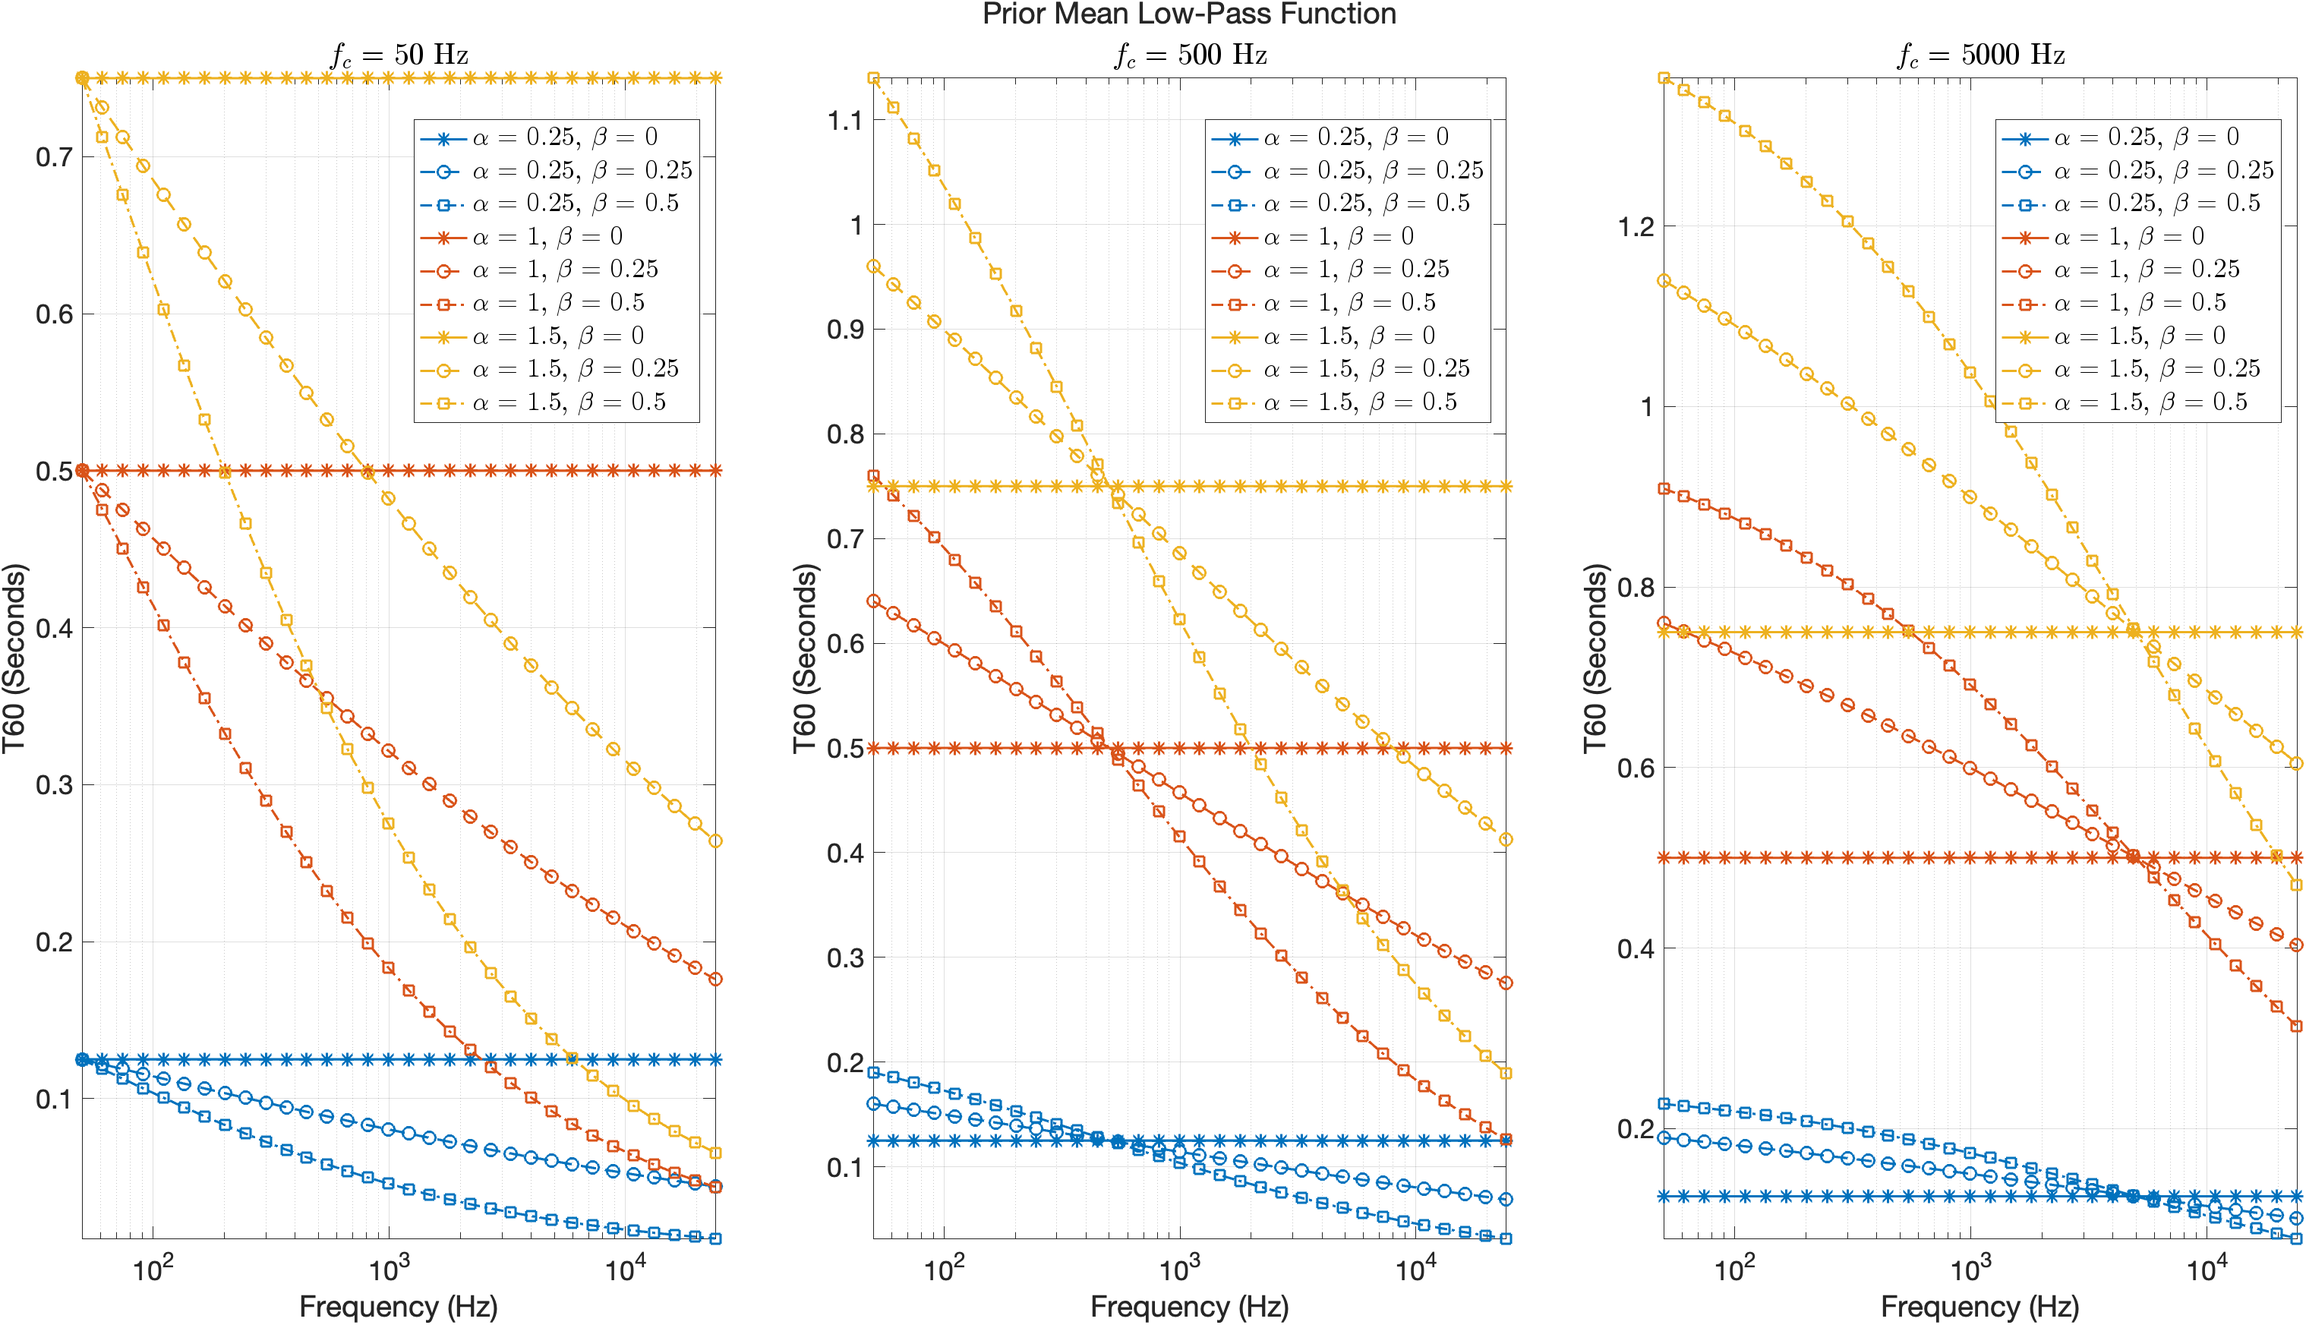
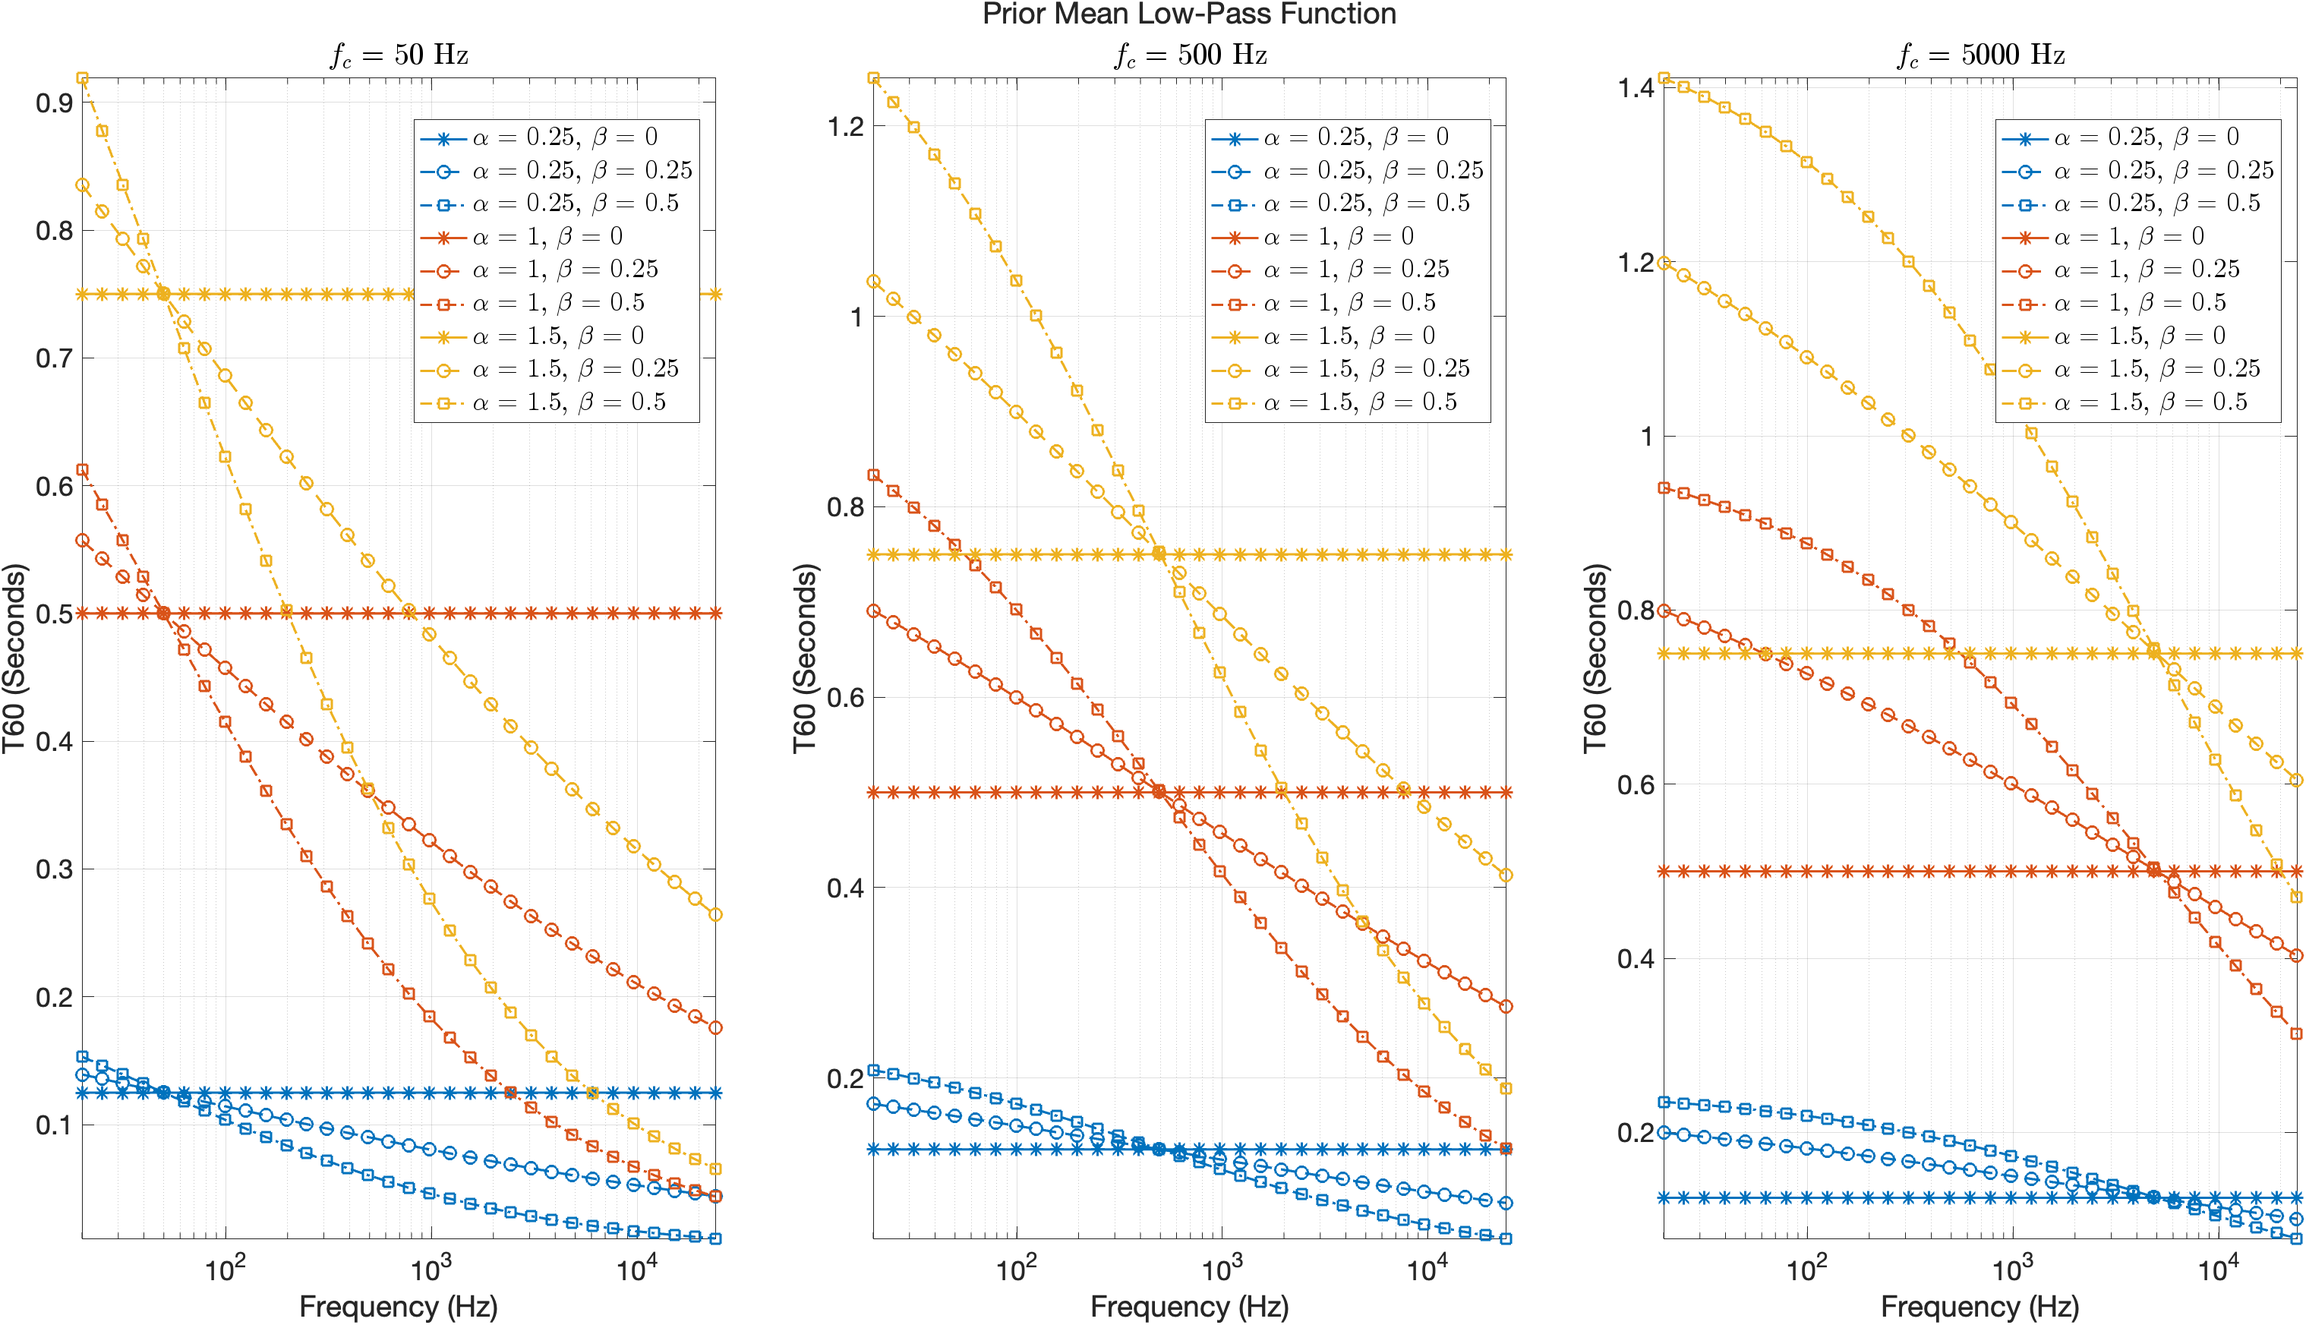
update markdown T60 tutorial with GP mean and covariance prior specifications, add further plotting support

diff --git a/gp/gp_plt.m b/gp/gp_plt.m
@@ -12,28 +12,32 @@ function h_fig_list = gp_plt(func_name, options)
 
 % options.mu_pow_f_lo:                  Scalar, frequency start (Hz)
 % options.mu_pow_f_hi:                  Scalar, Frequency end (Hz)
-% options.mu_pow_alpha_list:            [1 x N_alpha], list of T60 at 0 Hz
-% options.mu_pow_beta_list:             [1 x N_beta], list of decay exponents
+% options.mu_pow_alpha_list:            [1 x N_alpha] list of T60 at 0 Hz
+% options.mu_pow_beta_list:             [1 x N_beta] list of decay exponents
+% options.mu_pow_fig_position:          [1 x 4] figure position [x, y, width, height]
 
 % options.mu_lpf_f_lo:                  Scalar, frequency start (Hz)
 % options.mu_lpf_f_hi:                  Scalar, Frequency end (Hz)
 % options.mu_lpf_alpha_list:            [1 x N_alpha], list of T60 at 0 Hz
 % options.mu_lpf_beta_list:             [1 x N_beta], list of decay exponents
 % options.mu_lpf_omega_fc_list:         [1 x N_fc], list of cross-over frequencies
+% options.mu_lpf_fig_position:          [1 x 4] figure position [x, y, width, height]
 
 % options.cov_sqx_chw_ns_f_0_list:       [1 x N_f_0] Frequency f_0 (Hz)
 % options.cov_sqx_chw_ns_f_lo:           Scalar, frequency start (Hz)
 % options.cov_sqx_chw_ns_f_hi:           Scalar, Frequency end (Hz)
 % options.cov_sqx_chw_ns_sigma:          Scalar, covariance scaling parameter
-% options.cov_sqx_chw_ns_ell_list:       [1 x N_ell], list of wavelength scaling
-% options.cov_sqx_chw_ns_gamma_list:     [1 x N_gamma], list of wavelength exponents
+% options.cov_sqx_chw_ns_ell_list:       [1 x N_ell] list of wavelength scaling
+% options.cov_sqx_chw_ns_gamma_list:     [1 x N_gamma] list of wavelength exponents
+% options.cov_sqx_chw_nsfig_position:    [1 x 4] figure position [x, y, width, height]
 % 
 % options.cov_sqx_chw_sqx_f_0_list:      [1 x N_f_0] Frequency f_0 (Hz)
 % options.cov_sqx_chw_sqx_f_lo:          Scalar, frequency start (Hz)
 % options.cov_sqx_chw_sqx_f_hi:          Scalar, Frequency end (Hz)
 % options.cov_sqx_chw_sqx_sigma:         Scalar, covariance scaling parameter
-% options.cov_sqx_chw_sqx_ell_c_list:    [1 x N_ell], list of wavelength scaling
-% options.cov_sqx_chw_sqx_ell_f_list:    [1 x N_gamma], list of wavelength exponents
+% options.cov_sqx_chw_sqx_ell_c_list:    [1 x N_ell] list of wavelength scaling
+% options.cov_sqx_chw_sqx_ell_f_list:    [1 x N_gamma] list of wavelength exponents
+% options.cov_sqx_chw_sqx_fig_position:  [1 x 4] figure position [x, y, width, height]
 % 
 % options.enable_export:                 Logical, if true, export figures to files
 
@@ -53,31 +57,34 @@ function h_fig_list = gp_plt(func_name, options)
 arguments
     func_name (1,:) char {mustBeMember(func_name, {'mu_pow', 'mu_lpf', 'cov_sqx_chw_ns', 'cov_sqx_chw_sqx'})} = 'cov_sqx_chw_ns';
 
-    options.mu_pow_f_lo (1,1) double {mustBePositive} = 50;
+    options.mu_pow_f_lo (1,1) double {mustBePositive} = 20;
     options.mu_pow_f_hi (1,1) double {mustBePositive}  = 24000;
     options.mu_pow_alpha_list (1,:) double {mustBeNonnegative} = [0.25, 1, 1.5];
     options.mu_pow_beta_list (1,:) double = [0, 0.125, 0.25];
+    options.mu_pow_fig_position (1,4) double {mustBeNonnegative} = [100, 100, 900, 450];
 
-    options.mu_lpf_f_lo (1,1) double {mustBePositive} = 50;
+    options.mu_lpf_f_lo (1,1) double {mustBePositive} = 20;
     options.mu_lpf_f_hi (1,1) double {mustBePositive}  = 24000;
     options.mu_lpf_alpha_list (1,:) double {mustBeNonnegative} = [0.25, 1, 1.5];
     options.mu_lpf_beta_list (1,:) double  {mustBeNonnegative} = [0, 0.25, 0.5];
-    options.mu_lpf_omega_fc_list (1,:) double = 2 * pi * [50, 500, 5000];
-
+    options.mu_lpf_omega_fc_list (1,:) double {mustBeNonnegative} = 2 * pi * [50, 500, 5000];
+    options.mu_lpf_fig_position (1,4) double {mustBeNonnegative} = [100, 100, 1600, 900];
 
     options.cov_sqx_chw_ns_f_0_list  (1,:) double {mustBePositive} = [50, 500, 5000];
-    options.cov_sqx_chw_ns_f_lo (1,1) double {mustBePositive} = 50;
+    options.cov_sqx_chw_ns_f_lo (1,1) double {mustBePositive} = 20;
     options.cov_sqx_chw_ns_f_hi (1,1) double {mustBePositive}  = 24000;
     options.cov_sqx_chw_ns_sigma (1,1) double {mustBeNonnegative} = 1;
     options.cov_sqx_chw_ns_ell_list (1,:) double {mustBePositive} = 343;
     options.cov_sqx_chw_ns_gamma_list (1,:) double {mustBePositive} =  [0.5, 1, 1.5];
+    options.cov_sqx_chw_ns_fig_position (1,4) double {mustBeNonnegative} = [100, 100, 1600, 900];
 
     options.cov_sqx_chw_sqx_f_0_list  (1,:) double {mustBePositive} = [50, 500, 5000];
-    options.cov_sqx_chw_sqx_f_lo (1,1) double {mustBePositive} = 50;
+    options.cov_sqx_chw_sqx_f_lo (1,1) double {mustBePositive} = 20;
     options.cov_sqx_chw_sqx_f_hi (1,1) double {mustBePositive}  = 24000;
     options.cov_sqx_chw_sqx_sigma (1,1) double {mustBeNonnegative} = 1;
     options.cov_sqx_chw_sqx_ell_c_list (1,:) double {mustBePositive} = [1 2]/2;
     options.cov_sqx_chw_sqx_ell_f_list (1,:) double {mustBePositive} = [2 4]/2;
+    options.cov_sqx_chw_sqx_fig_position (1,4) double {mustBeNonnegative} = [100, 100, 1600, 900];
 
     options.fontsize (1,1) double {mustBePositive, mustBeInteger} = 20;
     options.FaceColor (1,:) char {mustBeMember(options.FaceColor, {'flat', 'interp'}) } = 'flat';
@@ -106,12 +113,13 @@ if strcmp(func_name, 'mu_pow')
     for i = 1:N_alpha
         for j = 1:N_beta
             mu_list(:, i, j) = mu_pow(omega, alpha_list(i), beta_list(j));
+%            mu_list(:, i, j) = gp_mu(omega, gp_mu_opts('mu_func', 'power', 'mu_alpha', alpha_list(i), 'mu_beta', beta_list(j)));
         end
     end
     
     %Plot
     h_fig = figure;
-    h_fig.Position = [100, 100, 900, 450];
+    h_fig.Position = options.mu_pow_fig_position;
     h_fig_list{1} = h_fig;
 
     line_style_list = {'-', '--', '-.', ':'};
@@ -169,7 +177,7 @@ elseif strcmp(func_name, 'mu_lpf')
     
     %Plot
     h_fig = figure;
-    h_fig.Position = [100, 100, 1600, 900];
+    h_fig.Position = options.mu_lpf_fig_position;
     h_fig_list{1} = h_fig;
 
     line_style_list = {'-', '--', '-.', ':'};
@@ -233,7 +241,7 @@ elseif strcmp(func_name, 'cov_sqx_chw_ns')
 
     %Plotting
     h_fig = figure;
-    h_fig.Position = [100, 100, 1600, 900];
+    h_fig.Position = options.cov_sqx_chw_ns_fig_position;
     h_fig_list{1} = h_fig;
 
     %Setup tiled layouts
@@ -263,7 +271,6 @@ elseif strcmp(func_name, 'cov_sqx_chw_ns')
                 %Compute covariance
                 K = cov_sqx_chw_ns(X, X0, sigma, ell, gamma);    
                 K_phi_freq = reshape(K, [N_theta_phi, N_freq]);
-    
                 
                 h_pc = pcolor(freq_list, rad2deg(phi_list), mag2db(K_phi_freq));
                 set(h_pc, 'EdgeColor', 'none');
@@ -319,7 +326,7 @@ elseif strcmp(func_name, 'cov_sqx_chw_sqx')
 
     %Plotting
     h_fig = figure;
-    h_fig.Position = [100, 100, 1600, 900];
+    h_fig.Position = options.cov_sqx_chw_sqx_fig_position;
     h_fig_list{1} = h_fig;
 
     %Setup tiled layouts

diff --git a/gp/gp_cov.m b/gp/gp_cov.m
@@ -17,22 +17,22 @@ function [K, dK_mat_list, dK_name_list] = gp_cov(X, Y, options)
 %dK_name_list: [1 x P] cell matrix where dK_name_list{1, n} is name of variable in gp_cov_opts.m
 
 %%%%%%%%%%%%%%%%%%%%%%%%%%%%%%%%%%%%%%%%%%%%%%%%%%%%%%%%%%%%%%%%%%%%%%%%%%%
-%Sample usage: Generate sample covariance matrix and partial derivatives
+%Sample usage: Generate and plot prior covariance matrix and partial derivatives
 
-% rng(234);
-% N_B = 16;
-% N_E = 10;
-% Fs = 48000;
-% omega = logspace(log10(20), log10(Fs/2), N_B)' * 2 *pi;
+% N_B = 16;     %Number of log-uniform angular frequencies
+% N_E = 20;     %Number of uniform spherical coordinates
+
+% omega = 2 * pi * logspace(log10(20), log10(24000), N_B)';
 % [theta, phi] = sh_fib(N_E);
 % freq = max(1, omega / (2 * pi)); %[N_B x 1]
-% theta = rand(N_E, 1) * pi;
-% phi = rand(N_E, 1) * 2 * pi;
+
 % freq_grid = repmat(freq, [1, N_E]);
 % theta_grid  = repmat(theta', [N_B, 1]);
 % phi_grid    = repmat(phi', [N_B, 1]);
 % X = [2 * pi * freq_grid(:), theta_grid(:), phi_grid(:)]; %[N_B * N_E x 1]
-% [K, dK_mat_list, dK_name_list] = gp_cov(X, X);
+
+% [K, dK_mat_list, dK_name_list] = gp_cov(X, X, gp_cov_opts('cov_func', 'cov_sqx_chw_ns', 'cov_sigma', 1, 'cov_ell', 343, 'cov_gamma', 1, 'enable_disp', true));
+% [K, dK_mat_list, dK_name_list] = gp_cov(X, X, gp_cov_opts('cov_func', 'cov_sqx_chw_sqx', 'cov_sigma', 1, 'cov_ell_c', 1, 'cov_ell_f', 2, 'enable_disp', true));
 
 arguments
     X (:,3) double = [1 0 0];
@@ -52,6 +52,10 @@ if strcmp(options.cov_func, 'cov_sqx_chw_ns')
         K = cov_sqx_chw_ns(X, Y, options.cov_sigma, options.cov_ell, options.cov_gamma); %[NX x NY] K
     end
 
+    if options.enable_disp  && coder.target('MATLAB')
+        gp_plt('cov_sqx_chw_ns', 'cov_sqx_chw_ns_sigma', options.cov_sigma, 'cov_sqx_chw_ns_ell_list', options.cov_ell, 'cov_sqx_chw_ns_gamma_list', options.cov_gamma, 'cov_sqx_chw_ns_fig_position', [100, 100, 1200, 900]);
+    end
+
 elseif strcmp(options.cov_func, 'cov_sqx_chw_sqx')
 
     if nargout > 1
@@ -61,9 +65,12 @@ elseif strcmp(options.cov_func, 'cov_sqx_chw_sqx')
         dK_name_list = {'cov_sigma', 'cov_ell_c', 'cov_ell_f'};
 
     else
-        K = cov_sqx_chw_sqx(X, Y, options.cov_sigma, options.options.cov_ell_c, options); %[NX x NY] K
+        K = cov_sqx_chw_sqx(X, Y, options.cov_sigma, options.cov_ell_c, options.cov_ell_f); %[NX x NY] K
     end
 
+    if options.enable_disp  && coder.target('MATLAB')
+        gp_plt('cov_sqx_chw_sqx', 'cov_sqx_chw_sqx_sigma', options.cov_sigma, 'cov_sqx_chw_sqx_ell_c_list', options.cov_ell_c, 'cov_sqx_chw_sqx_ell_f_list', options.cov_ell_f, 'cov_sqx_chw_sqx_fig_position', [100, 100, 1200, 900]);
+    end
 
 else
     error('Unsupported options.cov_func');

diff --git a/gp/gp_mu.m b/gp/gp_mu.m
@@ -12,6 +12,14 @@ function mu = gp_mu(omega, options)
 %Output
 %mu:        [N x M]
 
+%%%%%%%%%%%%%%%%%%%%%%%%%%%%%%%%%%%%%%%%%%%%%%%%%%%%%%%%%%%%%%%%%%%%%%%%%%%
+%Sample usage: Evaluate and plot prior mean function 
+
+% omega = 2 * pi * logspace(log10(20), log10(24000), 256)'; % Angular frequencies
+
+% mu_power = gp_mu(omega, gp_mu_opts('mu_func', 'power', 'mu_alpha', 1, 'mu_beta', 0.5, 'enable_disp', true));
+% mu_lpf   = gp_mu(omega, gp_mu_opts('mu_func', 'LPF',   'mu_alpha', 1, 'mu_beta', 0.5, 'mu_fc', 500, 'enable_disp', true));
+
 arguments
     omega (:,:) double {mustBeNonnegative} = pi/2;
     options = gp_mu_opts;
@@ -22,11 +30,18 @@ if strcmp(options.mu_func, 'power')
 
     mu = mu_pow(omega, options.mu_alpha, options.mu_beta); %[N x M]
 
+    if options.enable_disp  && coder.target('MATLAB')
+        gp_plt('mu_pow', 'mu_pow_alpha_list', options.mu_alpha, 'mu_pow_beta_list', options.mu_beta, 'mu_pow_fig_position', [100, 100, 900, 450]);
+    end
+     
 elseif strcmp(options.mu_func, 'LPF')
 
     mu = mu_lpf(omega, options.mu_alpha, options.mu_beta, options.mu_fc * 2 * pi); %[N x M]
 
+    if options.enable_disp  && coder.target('MATLAB')
+        gp_plt('mu_lpf', 'mu_lpf_alpha_list', options.mu_alpha, 'mu_lpf_beta_list', options.mu_beta, 'mu_lpf_omega_fc_list', options.mu_fc * 2 * pi, 'mu_lpf_fig_position', [100, 100, 900, 450]);
+    end
+
 else
     error('Unsupported options.mu_func');
 end
-

diff --git a/gp/gp_mu_opts.m b/gp/gp_mu_opts.m
@@ -8,7 +8,11 @@ function options = gp_mu_opts(options)
 
 arguments
     options.mu_func    (1,:) char {mustBeMember(options.mu_func, {'power', 'LPF'}) } = 'power';
+
     options.mu_alpha   (1,1) double {mustBeNonnegative} = 1;
     options.mu_beta    (1,1) double {mustBeNonnegative} = 0.25;
+
     options.mu_fc      (1,1) double {mustBeNonnegative} = 8000;
+
+    options.enable_disp (1,1) logical = false;
 end

diff --git a/gp/gp_cov_opts.m b/gp/gp_cov_opts.m
@@ -33,6 +33,7 @@ arguments
     options.cov_ell_c_lim  (1,2) double {mustBePositive} = [eps, inf];
     options.cov_ell_f_lim  (1,2) double {mustBePositive} = [eps, inf];
 
+    options.enable_disp (1,1) logical = false;
 end
 
 if strcmp(options.cov_func, 'cov_sqx_chw_ns')

diff --git a/tutorial_t60_aug.md b/tutorial_t60_aug.md
@@ -4,10 +4,10 @@ In this tutorial, we cover sound decay time augmentation of room impulse respons
 >Yuancheng Luo, "Fast Time-Varying Exponentiated Convolution Methods for Generative Direction Dependent Reverberation", Proceedings of the 160th Audio Engineering Society Convention.
 
 The high-level steps are as follows:
-* Sample or design a sound decay time function $T_{60}(\omega, \theta, \phi)$ of angular frequency $\omega$, and spherical coordinates $(\theta, \phi)$ co-latitude and azimuth respectively
-* Fit a short finite impulse response (FIR) exponentiating filter $\bf{g}$ to sampled $T_{60}(\omega, \theta, \phi)$ functions
-* Specify an input RIR or generate a colorless (constant T60) RIR $\bf{h}$
-* Apply time-varying exponentiated convolution $\textbf{f} = f(\bf{g}, \bf{h})$
+* [Sampling T60 from Gaussian Processes (GPs):](#sampling-t60-functions-from-gaussian-processes) Sample or design a sound decay time function $T_{60}(\omega, \theta, \phi)$ of angular frequency $\omega$, and spherical coordinates $(\theta, \phi)$ co-latitude and azimuth respectively
+* [Exponentiating FIR Optimization:](#fitting-fir-to-t60-functions) Fit a short finite impulse response (FIR) exponentiating filter $\bf{g}$ to sampled $T_{60}(\omega, \theta, \phi)$ functions
+* [Specifying or generating colorless RIR:](#generating-colorless-room-impulse-responses) Specify an input RIR or generate a colorless (constant T60) RIR $\bf{h}$
+* [Augmenting RIR:](#applying-time-varying-exponentiated-convolution) Apply time-varying exponentiated convolution $\textbf{f} = f(\bf{g}, \bf{h})$
 
 ## Sampling T60 Functions from Gaussian Processes
 We can sample smooth T60 functions $T_{60}(\omega, \theta, \phi)$ of frequency and spherical coordinates from Gaussian processes distributions defined by prior mean and covariance functions.
@@ -36,10 +36,12 @@ gp_plt('mu_lpf');
 ```
 <img src="./figs/figs_t60/mu_lpf_1.png" alt="Power Function" width="900"/>
 
-
-We can evaluate prior mean functions via `gp_mu.m` and its options block `gp_mu_opts.m`:
+The GP prior mean function can be evaluated via `gp_mu.m` by specifying its options struct `gp_mu_opts.m` and plotted:
 ```
+omega = 2 * pi * logspace(log10(20), log10(24000), 256)'; % Angular frequencies
 
+mu_power = gp_mu(omega, gp_mu_opts('mu_func', 'power', 'mu_alpha', 1, 'mu_beta', 0.5, 'enable_disp', true));
+mu_lpf   = gp_mu(omega, gp_mu_opts('mu_func', 'LPF',   'mu_alpha', 1, 'mu_beta', 0.5, 'mu_fc', 500, 'enable_disp', true));
 ```
 
 ### Covariance Function Prior Specifications
@@ -77,6 +79,27 @@ gp_plt('cov_sqx_chw_sqx');
 <img src="./figs/figs_t60/cov_sqx_chw_sqx_1.png" alt="Squared Exponential Chordal Distance x  Squared Exponential of Log-Frequency" width="1200"/>
 
 where frequency $f = f_0$ for varying $f' = f_1$. Unlike the non-stationary covariance, the low and high frequencies covary only by their octave separation, and are independent of the absolute frequency.
+
+The GP prior covariance function can be evaluated via `gp_cov.m` by specifying its options struct `gp_cov_opts.m` and plotted:
+
+```
+N_B = 16;     %Number of log-uniform angular frequencies
+N_E = 20;     %Number of uniform spherical coordinates
+
+omega = 2 * pi * logspace(log10(20), log10(24000), N_B)';
+[theta, phi] = sh_fib(N_E);
+freq = max(1, omega / (2 * pi)); %[N_B x 1]
+
+freq_grid = repmat(freq, [1, N_E]);
+theta_grid  = repmat(theta', [N_B, 1]);
+phi_grid    = repmat(phi', [N_B, 1]);
+X = [2 * pi * freq_grid(:), theta_grid(:), phi_grid(:)]; %[N_B * N_E x 1]
+
+[K, dK_mat_list, dK_name_list] = gp_cov(X, X, gp_cov_opts('cov_func', 'cov_sqx_chw_ns', 'cov_sigma', 1, 'cov_ell', 343, 'cov_gamma', 1, 'enable_disp', true));
+[K, dK_mat_list, dK_name_list] = gp_cov(X, X, gp_cov_opts('cov_func', 'cov_sqx_chw_sqx', 'cov_sigma', 1, 'cov_ell_c', 1, 'cov_ell_f', 2, 'enable_disp', true));
+```
+
+### Gaussian Process Specifications
 
 ### Sampling from the Prior and Posterior Distributions
 
